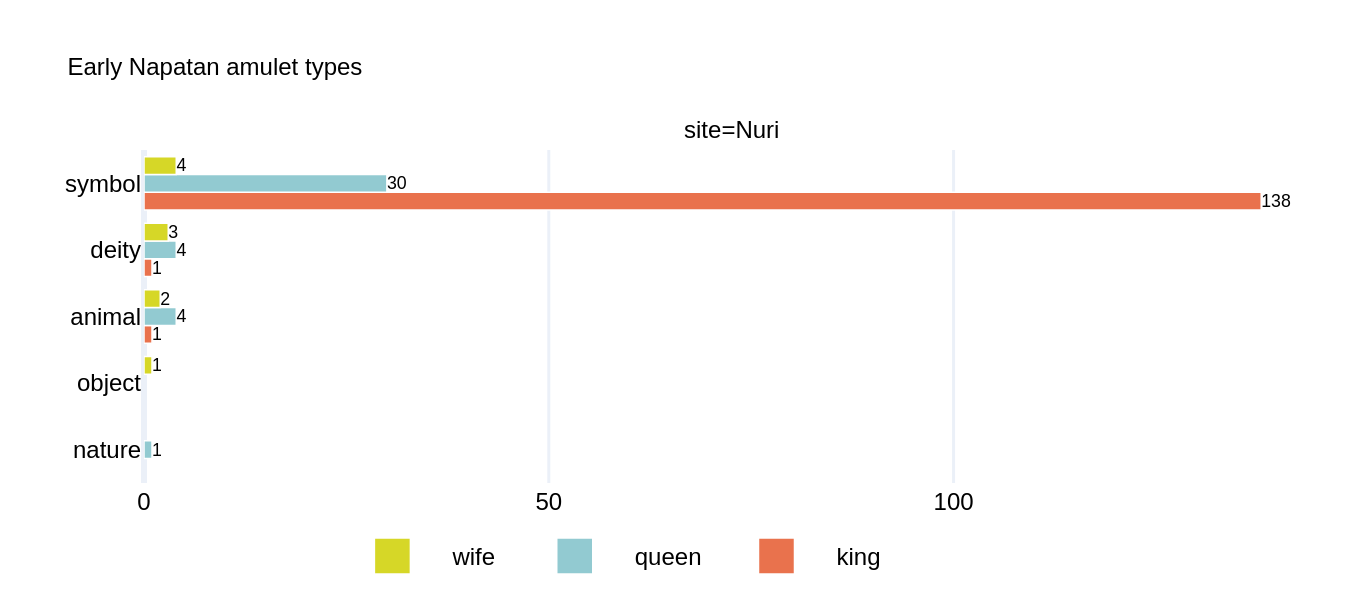
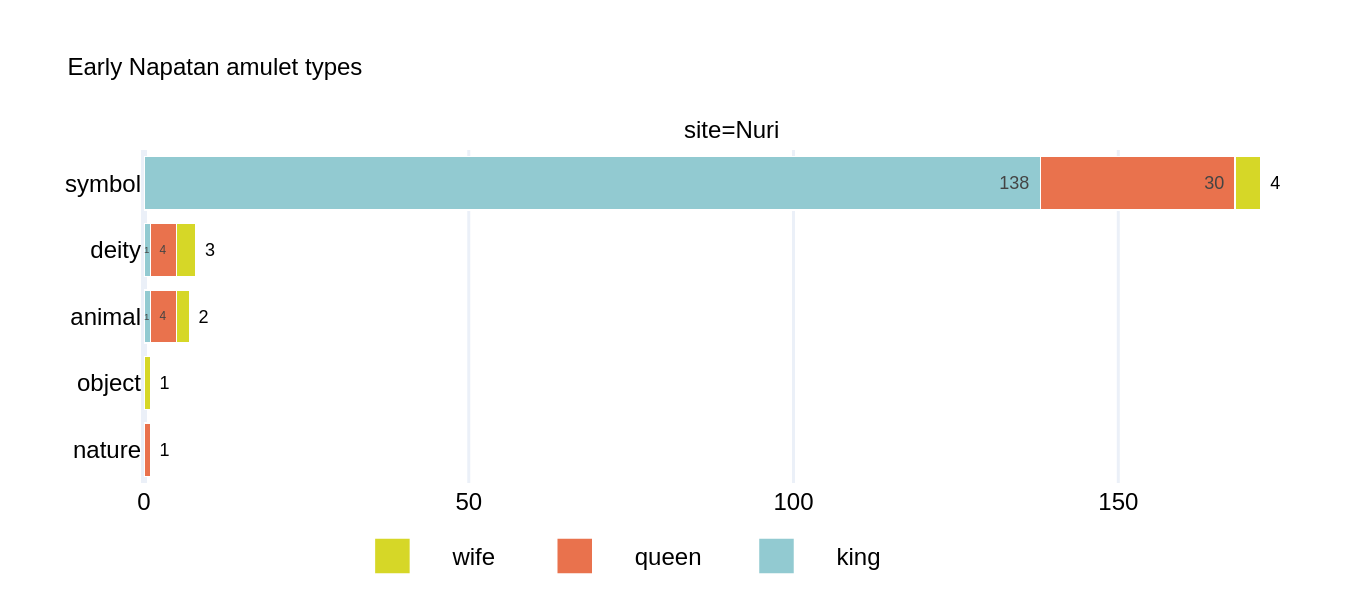
news

diff --git a/amulets_mat_25_nuri.py b/amulets_mat_25_nuri.py
@@ -16,13 +16,13 @@ JOIN sites s
 ON s.site_id = b.site_id
 JOIN amulets a
 ON a.burial_id = b.burial_id
-WHERE temp = '25th dyn.' AND b.site_id IN (1,2) AND a.material IS NOT NULL
+WHERE temp = '25th dyn.' AND b.site_id IN (2) AND a.material IS NOT NULL
 GROUP BY 1,2,3
 """
 
 df = pd.read_sql(query, engine)
 
-custom_colors = ['#e9724d', '#92cad1', '#d6d727', '#79ccb3', '#868686']
+custom_colors = ['#92cad1', '#e9724d','#d6d727', '#79ccb3', '#868686']
 
 fig = px.bar(
     df,
@@ -31,7 +31,7 @@ fig = px.bar(
     color="owner",
     facet_col="site_name",
     text='count',
-    barmode='group',
+    barmode='stack',
     title="25th Dynasty amulet materials",
     labels={"owner": "owner", "artifact_type": "obj. type", "site_name": "site"},
     color_discrete_sequence=custom_colors,
@@ -42,10 +42,10 @@ fig.update_layout(yaxis={'categoryorder': 'total ascending'},
     legend=dict(
         orientation="h",
         yanchor="bottom",
-        y=-0.15,
+        y=-0.21,
         xanchor="center",
-        x=0.40,
-        traceorder='reversed'),
+        x=0.40),
+        #traceorder='reversed'),
     font=dict(
         family="Verdana, sans-serif",
         color='black',
@@ -59,8 +59,8 @@ fig.update_layout(yaxis={'categoryorder': 'total ascending'},
     title_font=dict(size=8)
 )
 
-fig.update_traces(textposition='outside')
+fig.update_traces(textposition='outside', textfont_size=6)
 fig.update_xaxes(title_text='')
 fig.update_yaxes(title_text='')
 
-pio.write_image(fig, 'images/amulets_mat_25.png',scale=3, width=500, height=400)
+pio.write_image(fig, 'images/amulets_mat_25_nuri.png',scale=3, width=500, height=270)

diff --git a/amulets_mat_25_kurru.py b/amulets_mat_25_kurru.py
@@ -19,13 +19,13 @@ JOIN sites s
 ON s.site_id = b.site_id
 JOIN amulets a
 ON a.burial_id = b.burial_id
-WHERE temp = 'early napatan' AND b.site_id IN (1,2) AND a.material IS NOT NULL
+WHERE temp = '25th dyn.' AND b.site_id IN (1) AND a.material IS NOT NULL
 GROUP BY 1,2,3
 """
 
 df = pd.read_sql(query, engine)
 
-custom_colors = ['#92cad1', '#e9724d', '#d6d727', '#79ccb3', '#868686']
+custom_colors = ['#e9724d', '#92cad1', '#d6d727', '#79ccb3', '#868686']
 
 fig = px.bar(
     df,
@@ -35,7 +35,7 @@ fig = px.bar(
     facet_col="site_name",
     text='count',
     barmode='stack',
-    title="Early Napatan amulet materials",
+    title="25th Dynasty amulet materials",
     labels={"owner": "owner", "artifact_type": "obj. type", "site_name": "site"},
     color_discrete_sequence=custom_colors,
     template="plotly_white"
@@ -45,7 +45,7 @@ fig.update_layout(yaxis={'categoryorder': 'total ascending'},
     legend=dict(
         orientation="h",
         yanchor="bottom",
-        y=-0.25,
+        y=-0.24,
         xanchor="center",
         x=0.40),
         #traceorder='reversed'),
@@ -66,4 +66,4 @@ fig.update_traces(textposition='outside', textfont_size=6)
 fig.update_xaxes(title_text='')
 fig.update_yaxes(title_text='')
 
-pio.write_image(fig, 'images/amulets_mat_early.png',scale=3, width=500, height=250)
+pio.write_image(fig, 'images/amulets_mat_25_kurru.png',scale=3, width=500, height=250)

diff --git a/amulets_types_early.py b/amulets_types_early.py
@@ -22,7 +22,7 @@ GROUP BY 1,2,3
 
 df = pd.read_sql(query, engine)
 
-custom_colors = ['#e9724d', '#92cad1', '#d6d727', '#79ccb3', '#868686']
+custom_colors = ['#92cad1', '#e9724d', '#d6d727', '#79ccb3', '#868686']
 
 fig = px.bar(
     df,
@@ -31,7 +31,7 @@ fig = px.bar(
     color="owner",
     facet_col="site_name",
     text='count',
-    barmode='group',
+    barmode='stack',
     title="Early Napatan amulet types",
     labels={"owner": "owner", "artifact_type": "obj. type", "site_name": "site"},
     color_discrete_sequence=custom_colors,

diff --git a/amulets_mat_late.py b/amulets_mat_late.py
@@ -9,7 +9,10 @@ query = """
 SELECT 
     s.site_name,
     b.owner,
-    a.material,
+    CASE
+        WHEN a.material = 'lapis' THEN 'lapis lazuli'
+        ELSE a.material
+    END AS material,
     COUNT(amulet_id) as count
 FROM burials b
 JOIN sites s

diff --git a/amulets_forms_early.py b/amulets_forms_early.py
@@ -65,7 +65,7 @@ GROUP BY 1,2,3
 
 df = pd.read_sql(query, engine)
 
-custom_colors = ['#e9724d', '#92cad1', '#d6d727', '#79ccb3', '#868686']
+custom_colors = ['#92cad1', '#e9724d', '#d6d727', '#79ccb3', '#868686']
 
 fig = px.bar(
     df,

diff --git a/objs_early_nuri.py b/objs_early_nuri.py
@@ -22,7 +22,7 @@ GROUP BY 1,2,3
 
 df = pd.read_sql(query, engine)
 
-custom_colors = ['#e9724d', '#92cad1', '#d6d727', '#79ccb3', '#868686']
+custom_colors = ['#92cad1', '#e9724d', '#d6d727', '#79ccb3', '#868686']
 
 fig = px.bar(
     df,
